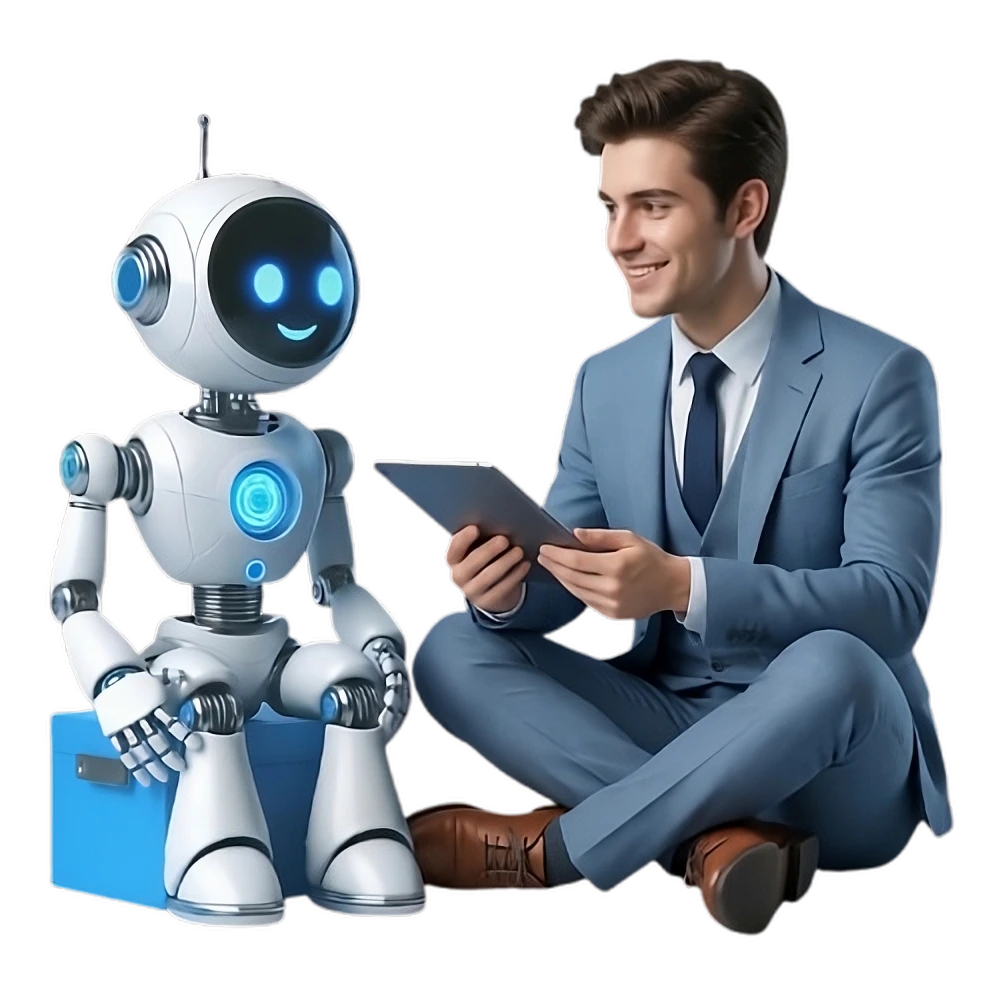
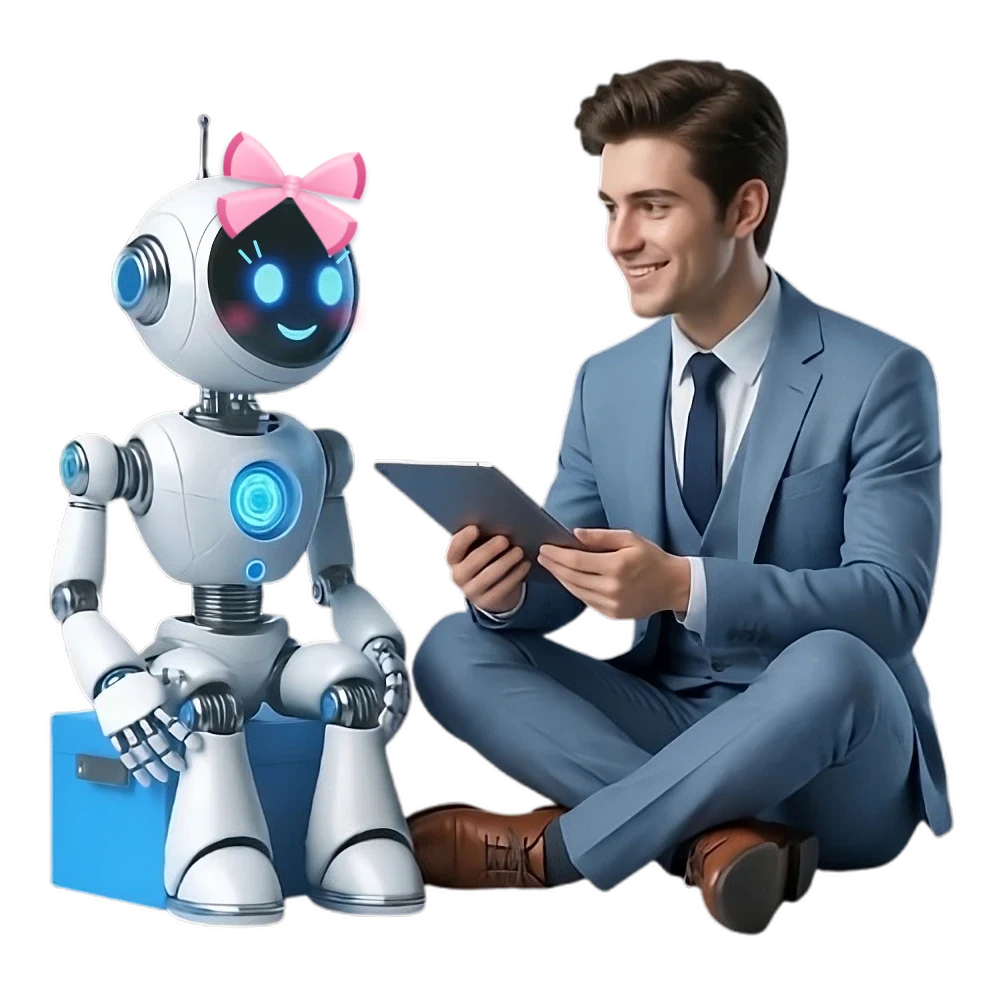
Home: Lilo in the Meet Lilo picture wears the pink bow
Claude-Session: https://claude.ai/code/session_01WMWcLmGfEnoYA2RhLy2XRc

Changed region(s): [[0.2188, 0.122, 0.375, 0.2744], [0.3125, 0.3049, 0.375, 0.3354], [0.2188, 0.3049, 0.2812, 0.3354]]

diff --git a/index.html b/index.html
@@ -162,7 +162,7 @@ if(cur&&!(window.matchMedia&&matchMedia("(prefers-reduced-motion: reduce)").matc
     <!-- MEET LILO -->
     <section class="container ask-sec" style="padding-bottom:90px">
       <div class="duo solo">
-      <div class="duo-lilo"><span class="tt-pill" style="background:#e9e6ff;color:#5b3fd6">MEET LILO · CHATBOT</span><h2>Not sure where to start? Ask Lilo.</h2><p>Upload your CV and get matched to open roles.</p><div class="ask-art"><img src="duo-robot.webp" alt="">
+      <div class="duo-lilo"><span class="tt-pill" style="background:#e9e6ff;color:#5b3fd6">MEET LILO · CHATBOT</span><h2>Not sure where to start? Ask Lilo.</h2><p>Upload your CV and get matched to open roles.</p><div class="ask-art"><img src="duo-robot.webp?v=2" alt="">
           <div class="ask-bub man" id="ab-man">Any remote jobs for me?</div>
           <div class="ask-bub bot" id="ab-bot">12 remote roles right now. Want them?</div>
         </div><button type="button" class="btn btn-primary" id="ask-open">Ask Lilo →</button></div>
